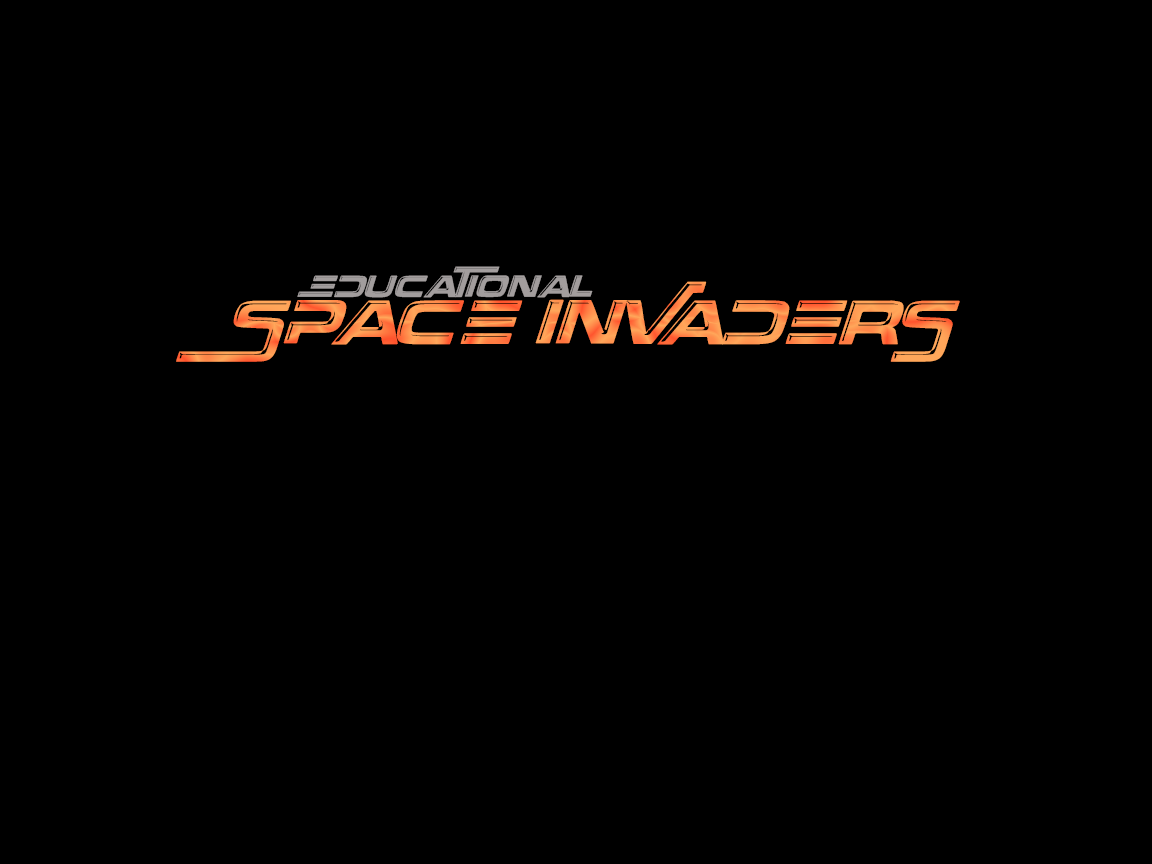
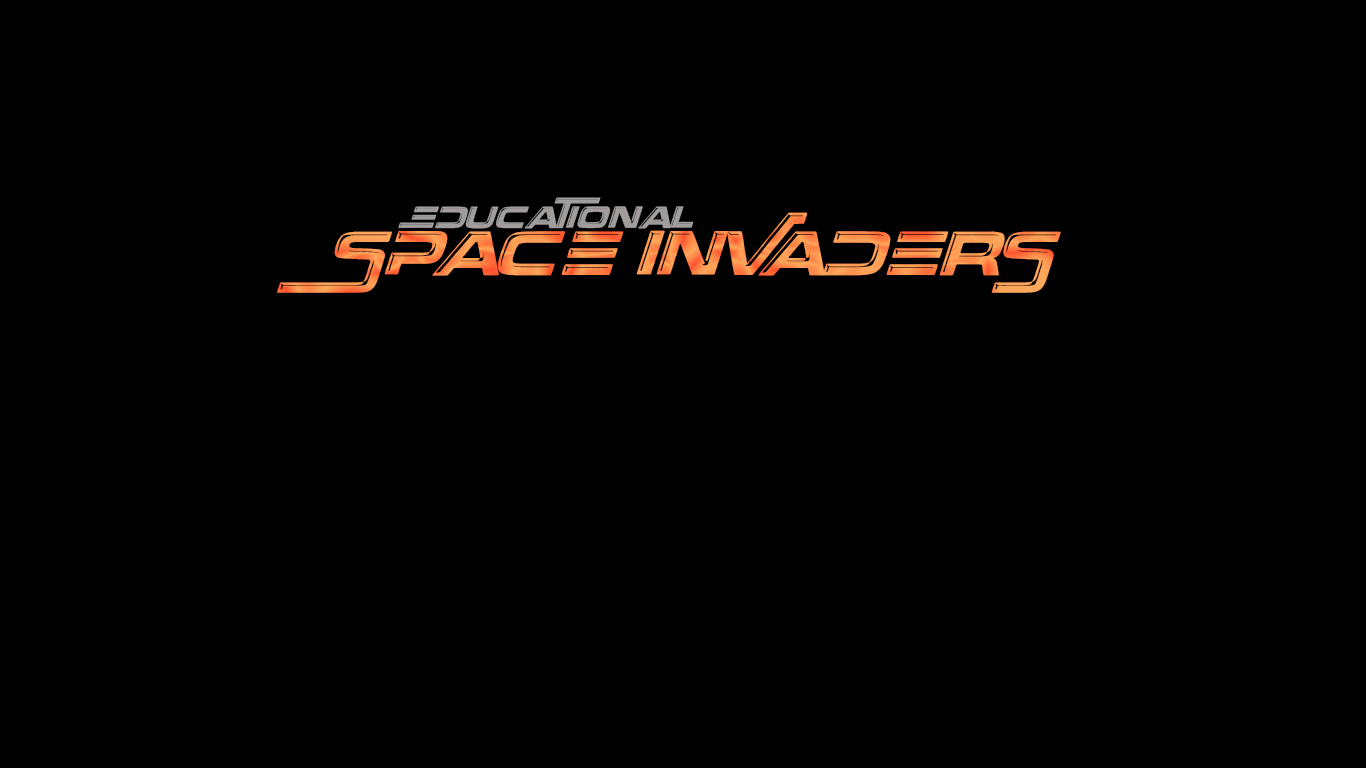
Small problem with al_flip_display() disabled the menu, FIXED. Now in 1366x768 FULL SCREEN With About Screen.

Changed region(s): [[0.1562, 0.25, 0.8438, 0.4375]]

diff --git a/ESI/main.cpp b/ESI/main.cpp
@@ -19,7 +19,7 @@
 #include <string>
 #include </home/luiz/work/eduinvaders-code/trunk/ESI/character.h>
 #include <typeinfo>
-#define X 1024
+#define X 1366
 #define Y 768
 const float FPS = 1000.0;
 
@@ -31,6 +31,7 @@ ALLEGRO_FONT *fonte2 = NULL;
 ALLEGRO_FONT *choice = NULL;
 ALLEGRO_BITMAP *imagem = NULL;
 ALLEGRO_BITMAP *sbvb = NULL;
+ALLEGRO_BITMAP *priscila = NULL;
 ALLEGRO_BITMAP *ship = NULL;
 ALLEGRO_SAMPLE *music = NULL;
 Character myship;
@@ -62,8 +63,9 @@ int Game() {
 
     ALLEGRO_KEYBOARD_STATE keyState;
 
-    float speed=10.0;;
-    float toMove=0;
+    float speed = 10.0;
+    ;
+    float toMove = 0;
 
     ALLEGRO_TIMER *timer = al_create_timer(1.0 / FPS);
     ALLEGRO_EVENT_QUEUE *event_queue = al_create_event_queue();
@@ -91,7 +93,7 @@ int Game() {
             else if (al_key_down(&keyState, ALLEGRO_KEY_LEFT))
                 toMove -= speed;
             else if (al_key_down(&keyState, ALLEGRO_KEY_ESCAPE))
-                done=true;
+                done = true;
 
         }
 
@@ -103,8 +105,8 @@ int Game() {
 
         myship.SetX(myship.GetX() + toMove);
         myship.DrawChar();
-        
-        toMove=0;
+
+        toMove = 0;
 
     }
 
@@ -154,9 +156,9 @@ int draw_menu(int pos = 1) {
 
 }
 
-void rotate_sbvb() {
+void rotate(const char * myimg, int quarter = 2) {
 
-    sbvb = al_load_bitmap("images/sbvb.png");
+    sbvb = al_load_bitmap(myimg);
 
 
     if (!sbvb)
@@ -164,22 +166,47 @@ void rotate_sbvb() {
 
 
     float angle = 0.5;
-    for (int i = 0; i < 50; i++) {
+    for (int i = 0; i < 120; i++) {
 
         al_clear_to_color(al_map_rgb(0, 0, 0));
         al_draw_bitmap(imagem, 0, 0, 0);
-        al_draw_scaled_rotated_bitmap(sbvb, 321 / 2.0, 315 / 2.0, 1024 / 2, 768 / 2, 1.5, 1.5, angle, 0);
+        al_draw_scaled_rotated_bitmap(sbvb, al_get_bitmap_width(sbvb) / 2.0, al_get_bitmap_height(sbvb) / 2.0, X * quarter / 4, Y / 2, 1.5, 1.5, angle, 0);
         al_flip_display();
         angle += 0.1;
     }
+    al_rest(0.3);
+}
+
+void rotateTwo(const char * myimg, const char * myimg2) {
+
+    sbvb = al_load_bitmap(myimg);
+    priscila = al_load_bitmap(myimg2);
+    imagem = al_load_bitmap("images/about.png");
 
 
 
+    float angle = 0.5;
+    for (int i = 0; i < 120; i++) {
+
+        al_clear_to_color(al_map_rgb(0, 0, 0));
+        al_draw_bitmap(imagem, 0, 0, 0);
+        al_draw_scaled_rotated_bitmap(sbvb, al_get_bitmap_width(sbvb) / 2.0, al_get_bitmap_height(sbvb) / 2.0, X / 4, Y / 2, 1.5, 1.5, angle, 0);
+        al_draw_scaled_rotated_bitmap(priscila, al_get_bitmap_width(priscila) / 2.0, al_get_bitmap_height(priscila) / 2.0, X * 3 / 4, Y / 2, 1.5, 1.5, angle, 0);
+        al_flip_display();
+        angle += 0.1;
+    }
+    al_rest(0.3);
+    al_clear_to_color(al_map_rgb(0, 0, 0));
+    al_flip_display();
+    al_draw_bitmap(imagem, 0, 0, 0);
+    al_flip_display();
+    al_rest(8.0);
 }
 
 int load_menu() {
     int pos = 1;
     char *menuOptions[4] = {"Start Game", "Credits", "About this game", "Quit"};
+
     // loading font files
     fonteMenu = al_load_font("fonts/Squareo.ttf", 39, 0);
     if (!fonteMenu) {
@@ -211,7 +238,6 @@ int load_menu() {
                     if (pos > 4)
                         pos = 1;
                     draw_menu(pos);
-                    al_flip_display();
                     break;
                 case ALLEGRO_KEY_UP:
                     draw_menu(pos);
@@ -219,7 +245,6 @@ int load_menu() {
                     if (pos < 1)
                         pos = 4;
                     draw_menu(pos);
-                    al_flip_display();
                     break;
                 case ALLEGRO_KEY_ESCAPE:
                     done = true;
@@ -235,7 +260,7 @@ int load_menu() {
                             //credits
                             break;
                         case 3:
-                            rotate_sbvb();
+                            rotateTwo("images/ciafrino.png", "images/sbvb.png");
                             al_flip_display();
                             draw_menu(pos);
                             break;
@@ -245,7 +270,7 @@ int load_menu() {
                     }
                     break;
                 case ALLEGRO_KEY_A:
-                    rotate_sbvb();
+                    rotate("images/sbvb.png");
                     al_flip_display();
                     draw_menu(pos);
                     break;
@@ -341,7 +366,7 @@ int main(void) {
 
 
 
-    draw_menu();
+    //    draw_menu();
     load_menu();
 
 

diff --git a/ESI/character.h b/ESI/character.h
@@ -22,7 +22,7 @@ using namespace std;
 
 #ifndef CHARACTER_H
 #define	CHARACTER_H
-#define MAX_X 1024
+#define MAX_X 1366
 #define MIN_X 0
 #define MAX_Y 768
 #define MIN_Y 0
